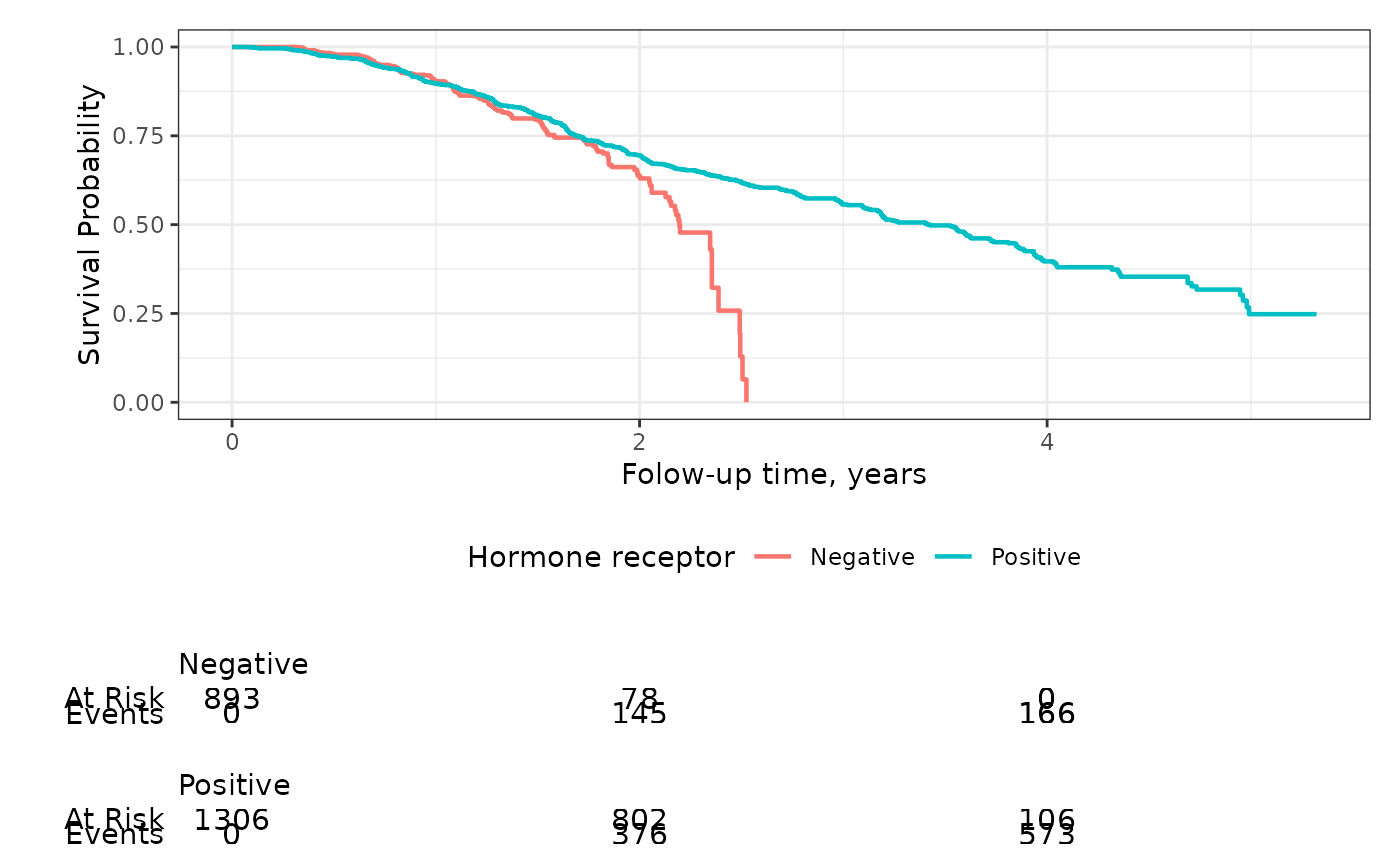
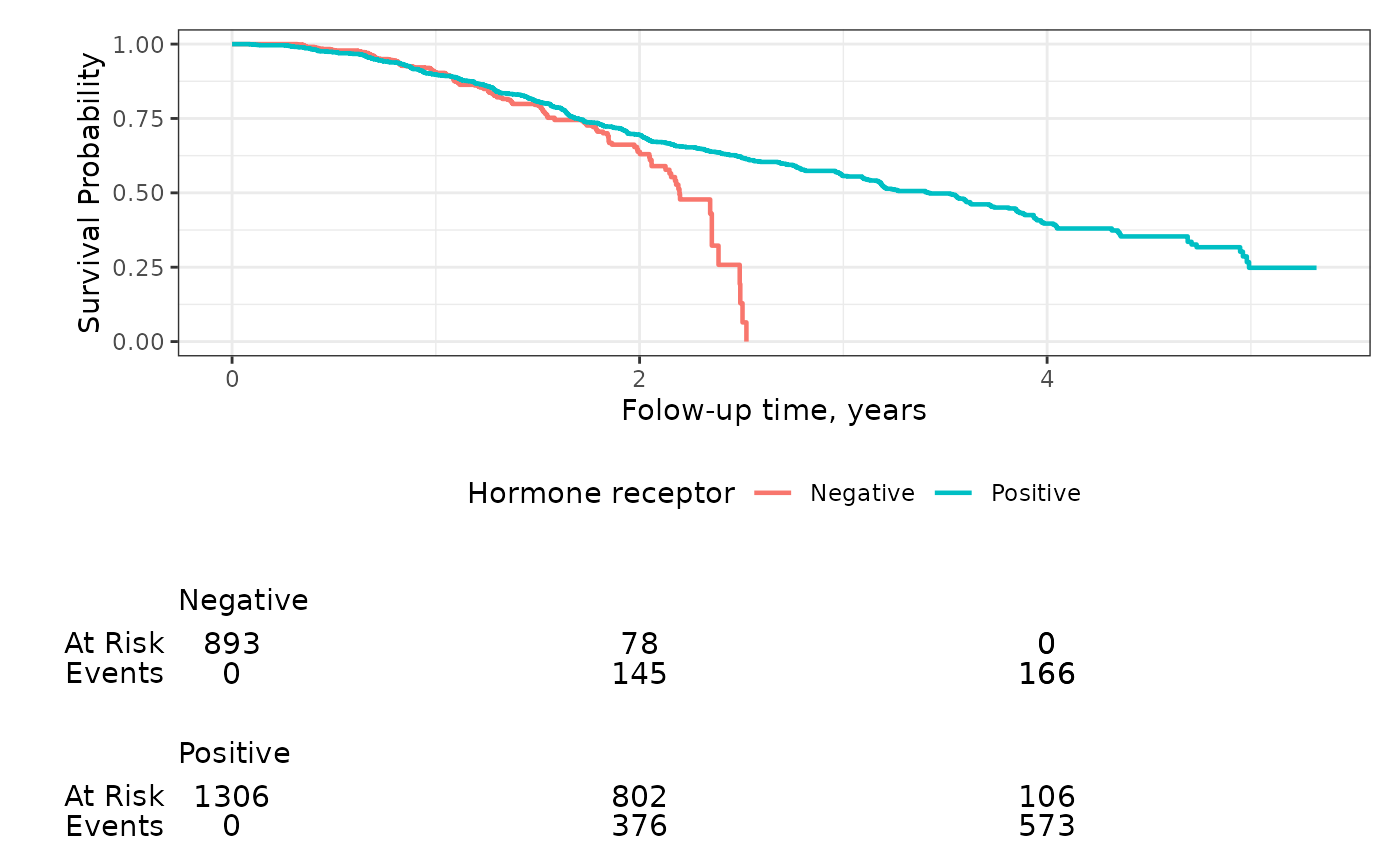
Deploying to gh-pages from @ ddsjoberg/ggsurvfit@49a46b1771c6ef68c8801139d5db41fc7690cbbc 🚀

diff --git a/articles/gallery.html b/articles/gallery.html
@@ -179,11 +179,12 @@
 <code class="sourceCode R"><span><span class="va">km_long_labels</span> <span class="op">+</span></span>
 <span>  <span class="fu"><a href="../reference/add_risktable_strata_symbol.html">add_risktable_strata_symbol</a></span><span class="op">(</span><span class="op">)</span></span></code></pre></div>
 <p><img src="gallery_files/figure-html/unnamed-chunk-8-1.png" width="700"></p>
-<p>You can further customize the risk table using themes and the <code>add_risktable(...)</code> arguments. For example, if you want to increase the font size of both the risk table text and the y-axis label.</p>
+<p>You can further customize the risk table using themes and the <code>add_risktable(...)</code> arguments. For example, use the following code to increase the font size of both the risk table text and the y-axis label.</p>
 <div class="sourceCode" id="cb9"><pre class="downlit sourceCode r">
 <code class="sourceCode R"><span><span class="va">km_estimate</span> <span class="op"><a href="https://magrittr.tidyverse.org/reference/pipe.html" class="external-link">%&gt;%</a></span></span>
 <span>  <span class="fu"><a href="../reference/ggsurvfit.html">ggsurvfit</a></span><span class="op">(</span>size <span class="op">=</span> <span class="fl">0.8</span><span class="op">)</span> <span class="op">+</span></span>
 <span>  <span class="fu"><a href="../reference/add_risktable.html">add_risktable</a></span><span class="op">(</span></span>
+<span>    risktable_height <span class="op">=</span> <span class="fl">0.33</span>,</span>
 <span>    size <span class="op">=</span> <span class="fl">4</span>, <span class="co"># increase font size of risk table statistics</span></span>
 <span>    theme <span class="op">=</span>   <span class="co"># increase font size of risk table title and y-axis label</span></span>
 <span>      <span class="fu"><a href="https://rdrr.io/r/base/list.html" class="external-link">list</a></span><span class="op">(</span></span>
